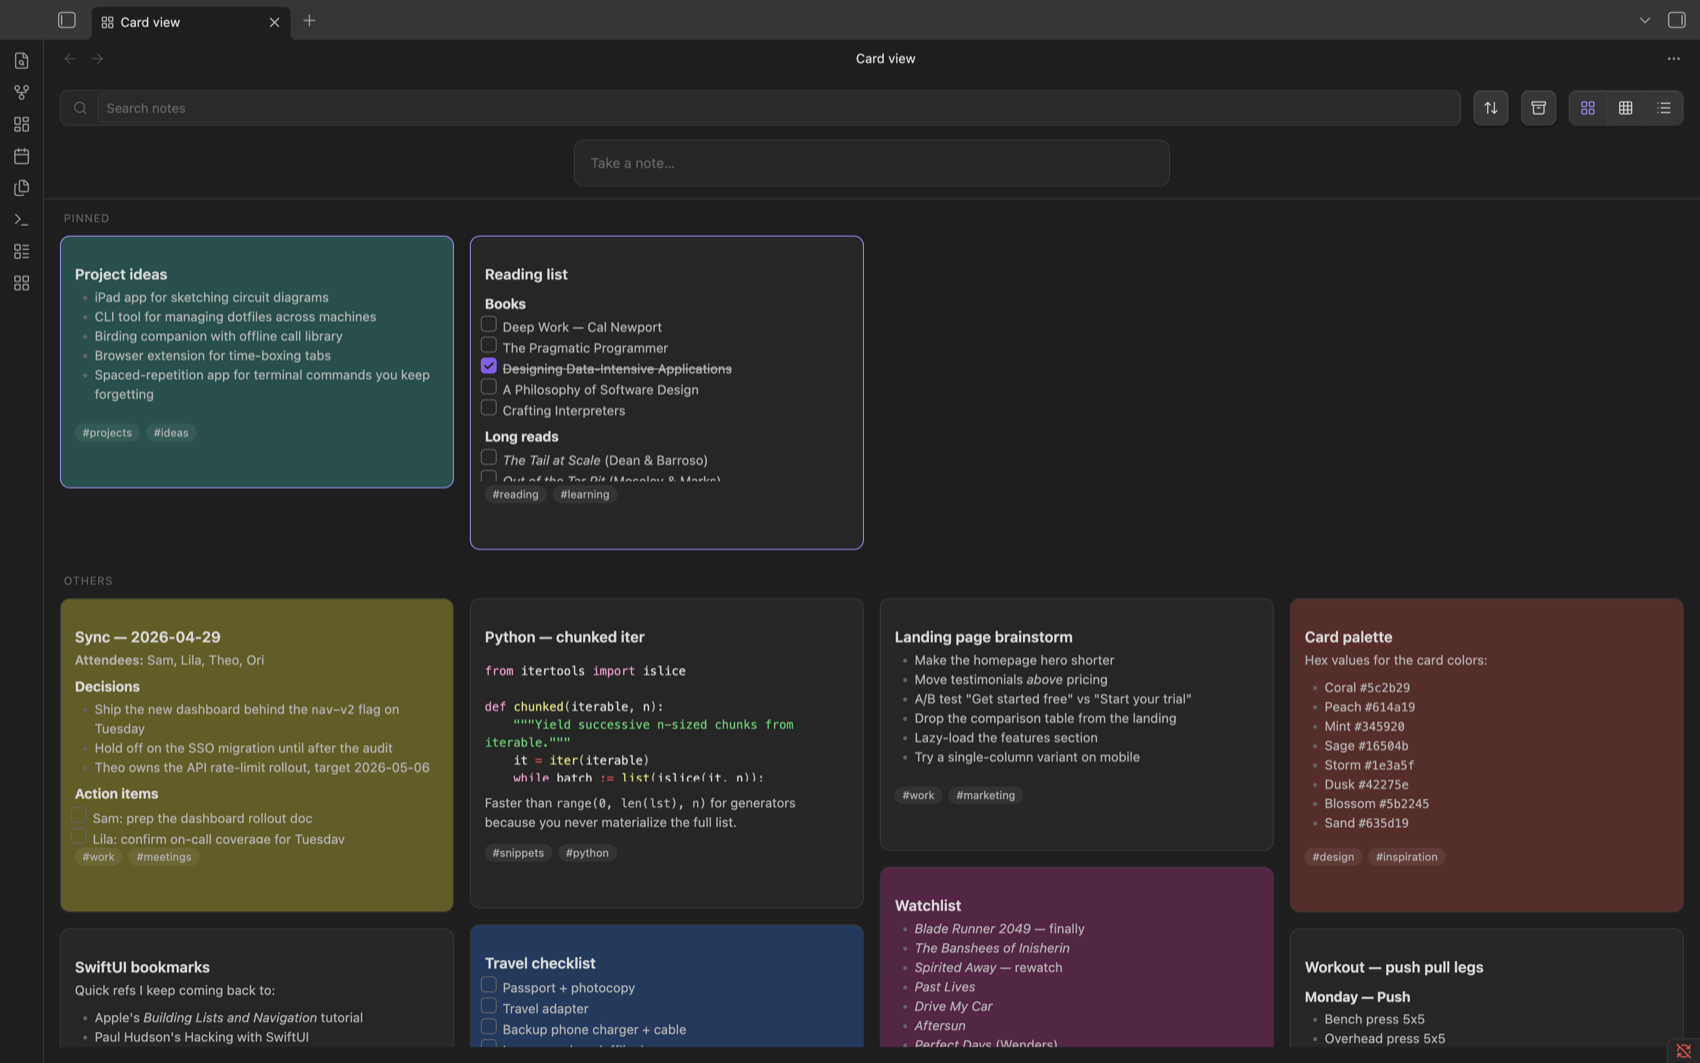
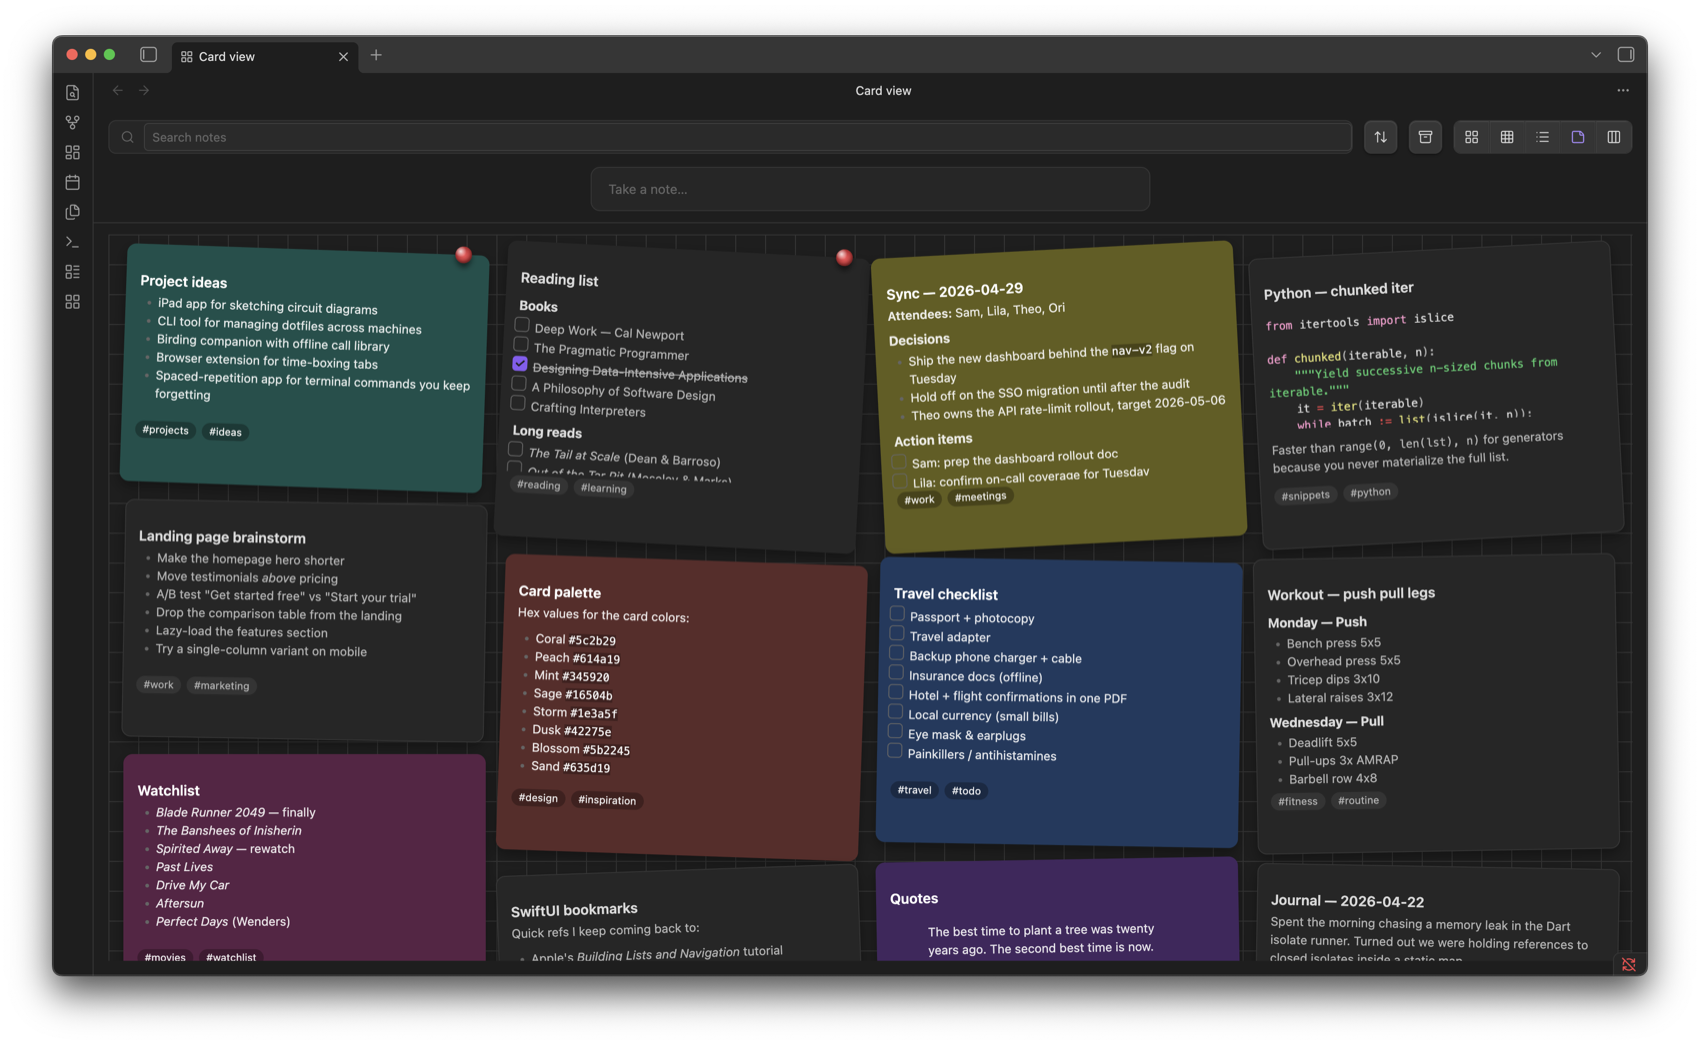
Update README screenshots: wall hero, expanded capture, colored modal preview
Replaces the earlier grid-density screenshots with the wall view — which is
both the new default density and the visually distinctive feature the plugin
is named for. Adds a capture-expanded screenshot so the README shows the
title + body + pin/color flow at a glance.

diff --git a/README.md b/README.md
@@ -1,12 +1,16 @@
 # Notekeeper
 
-A Google Keep–style masonry of cards for your Obsidian vault. Browse, capture, pin, color, archive, and filter your notes from one screen — without leaving the grid.
+A Google Keep–style wall of sticky notes for your Obsidian vault. Browse, capture, pin, color, and curate your notes on a sticky-note wall — or switch to a denser card grid when you need more density.
 
-![Grid view of notes laid out as a masonry of cards, with PINNED and OTHERS sections, varied colors, tags, and inline lists](docs/grid.png)
+![Wall view of notes as sticky notes with rotation, color tags, and pinned items at the top](docs/grid.png)
 
-Click any card to open a full markdown-rendered preview with one-click pin / edit / color / archive / open-in-tab actions:
+Capture a note with a title, body, optional pin, and color — saved to the wall in one click:
 
-![Note preview modal showing a Python code snippet with syntax highlighting](docs/modal.png)
+![Capture box expanded with title, body, pin and color buttons, and a primary Save action](docs/capture.png)
+
+Click any sticky for a full markdown-rendered preview that inherits the note's color:
+
+![Note preview modal in a colored note showing live markdown rendering and inline action buttons](docs/modal.png)
 
 ## Features
 
